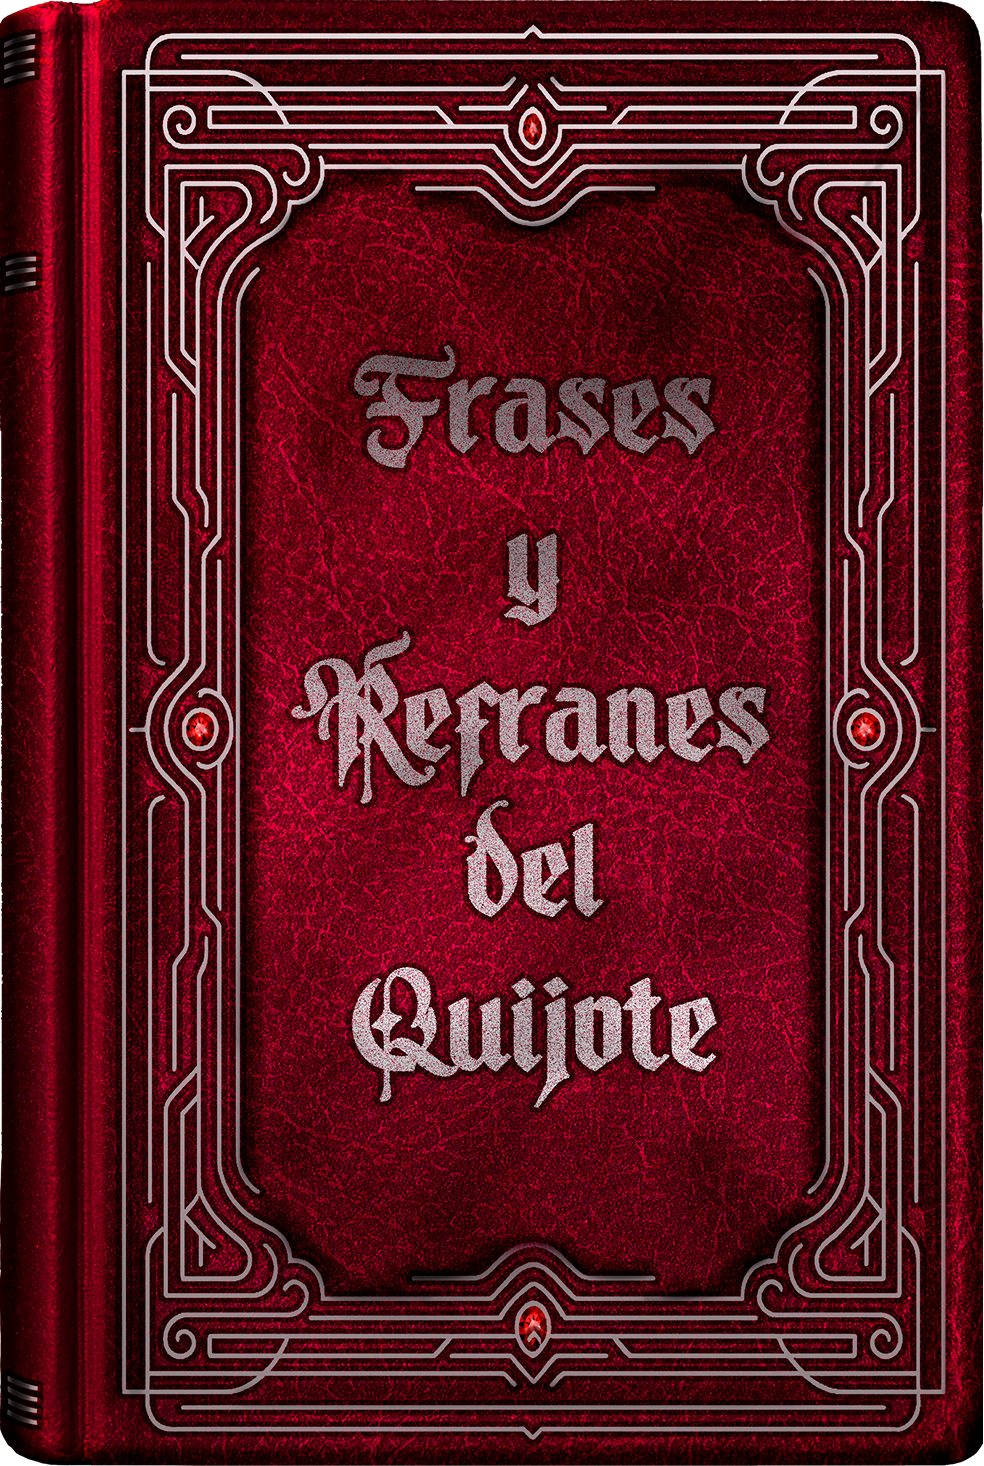
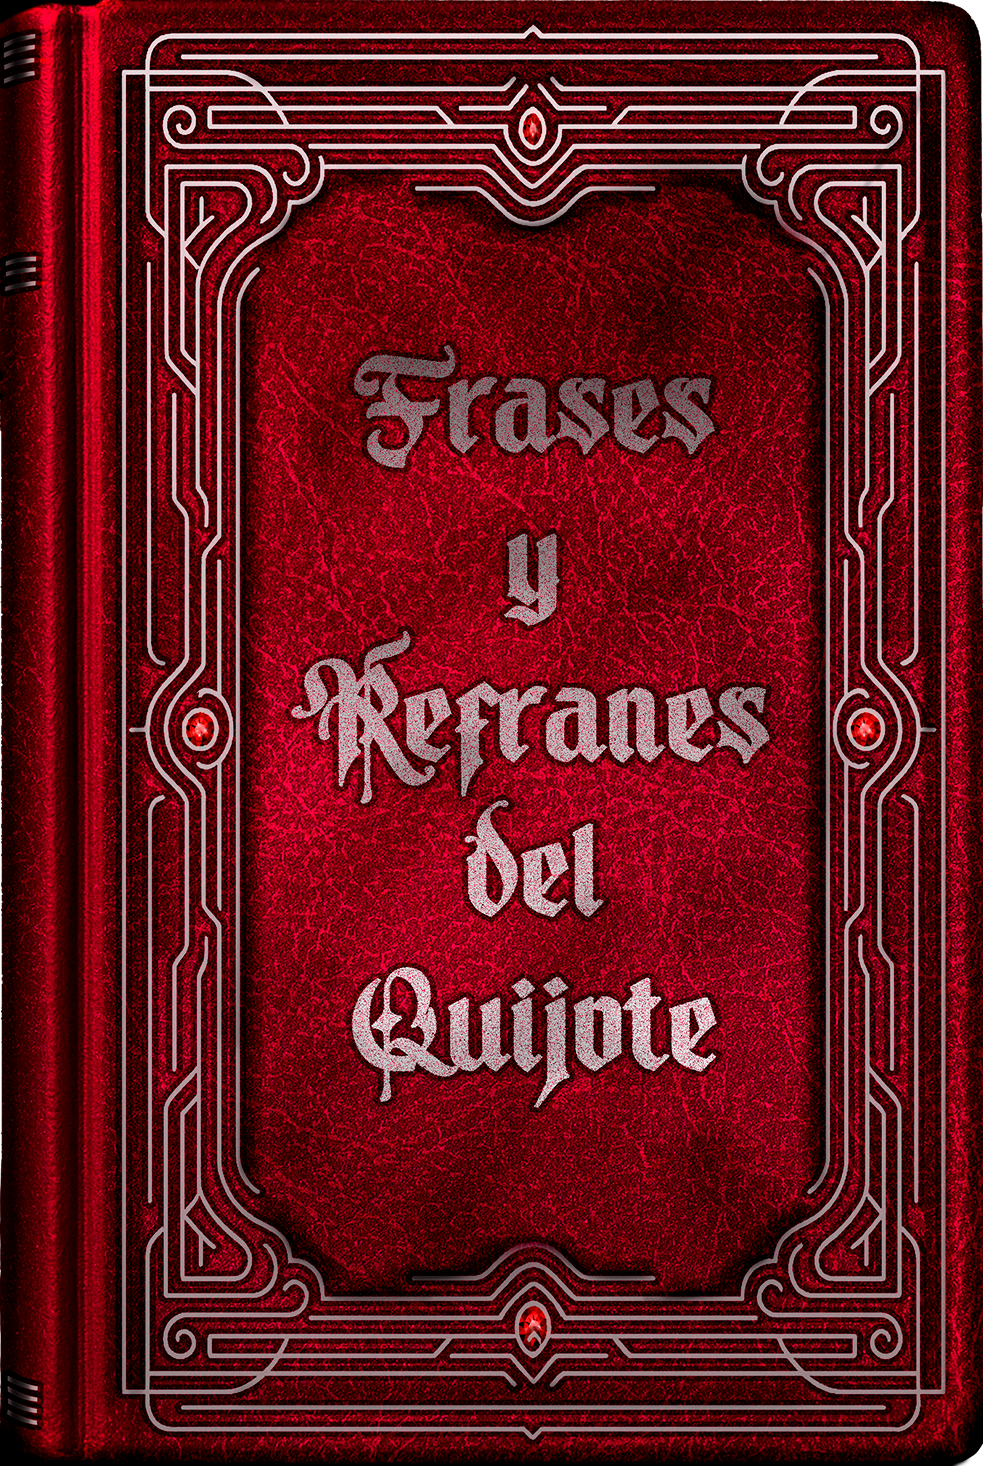
ajustes

diff --git a/src/pages/Menu.jsx b/src/pages/Menu.jsx
@@ -3,7 +3,7 @@ import { motion } from "framer-motion";
 import PageWrapper from "../components/PageWrapper";
 
 // 🖼 Importar imágenes desde assets
-import fondoLibro from "../assets/fondo-libro.png";
+import fondoLibro from "../assets/fondo-menu.png";
 import frasesImg from "../assets/tarjetas/frases.png";
 import personajesImg from "../assets/tarjetas/personajes.png";
 import ejerciciosImg from "../assets/tarjetas/ejercicios.png";
